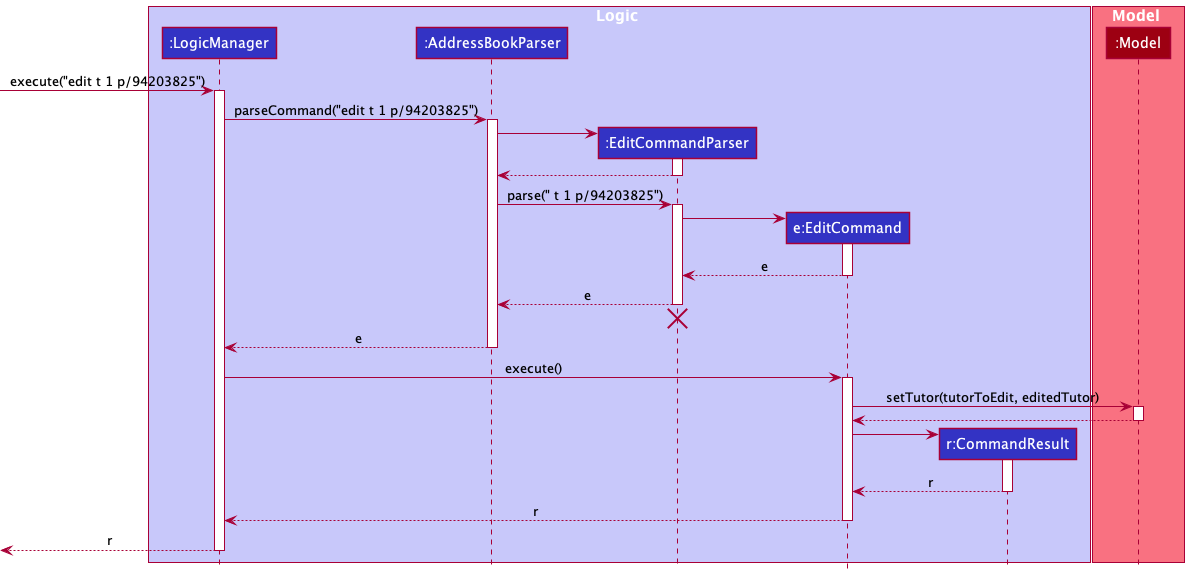
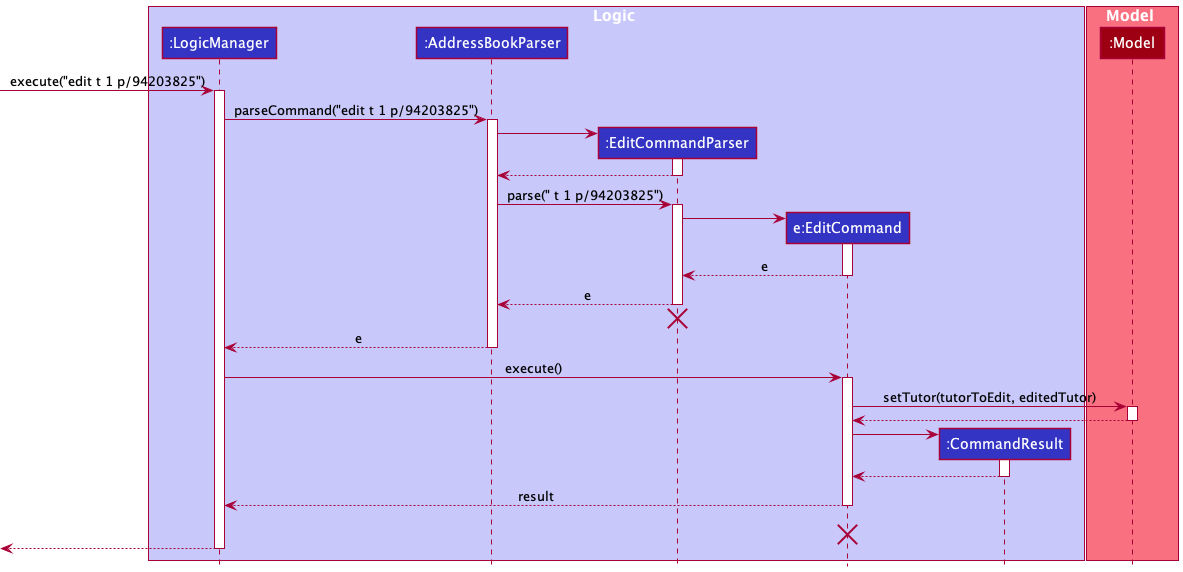
Modify DG for EditCommand based on meeting discussion points

diff --git a/docs/DeveloperGuide.md b/docs/DeveloperGuide.md
@@ -265,7 +265,7 @@ Given below is an activity diagram to show how the `delete` command works for a 
 
 ### Edit feature
 #### What it is
-Edits a tutor or student in the tutor list or student list respectively. All fields are optional in the `edit` command, but at least one field must be specified for the command to execute successfully.
+Edits a tutor/student in the tutor list/student list respectively. All fields are **optional** in the `edit` command, but **at least one field** must be specified for the command to execute successfully.
 
 #### Implementation details
 ##### Sequence of action
@@ -273,17 +273,17 @@ Edits a tutor or student in the tutor list or student list respectively. All fie
 
 Given below is an example usage scenario and how the `edit` command implementation behaves at each step:
 
-1. The user input (for e.g `edit t 1 p/94203825`) is handled by the `CommandBox` class in the Ui component, before being passed to `LogicManager` to be executed.
-2. `LogicManager` calls on `AddressBookParser`'s `parseCommand()` method which in turns creates a new `EditCommandParser`.
+1. The user input `edit t 1 p/94203825` is passed to `LogicManager` to be executed.
+2. `LogicManager` calls `AddressBookParser#parseCommand` which in turn creates a new `EditCommandParser`.
 3. The `EditCommandParser` calls its own `parse()` method which will return a new `EditCommand` if the input is valid.
 4. `EditCommand` will then update the tutor list in the `Model` class by replacing the existing tutor (to be edited) with the edited tutor.
 5. Lastly, a new `CommandResult` with the success message is returned to the `LogicManager`.
 
-Given below is a sequence diagram to show how the `edit` implementation works:
+Given below is a sequence diagram to show how the `edit` implementation works for a **valid** `edit` tutor input:
 
 ![EditCommandSequenceDiagram](images/EditCommandSequenceDiagram.png)
 
-Given below is an activity diagram to show how the `edit` command works:
+Given below is an activity diagram to show how the `edit` command works on a tutor:
 
 ![EditCommandActivityDiagram](images/EditCommandActivityDiagram.png)
 
@@ -292,7 +292,7 @@ Given below is an activity diagram to show how the `edit` command works:
 {: .no_toc}
 
 - **Alternative 1 (current choice)**: `edit` is handled separately for tutors and students via `EditTutorDescriptor` and `EditStudentDescriptor` respectively.
-    - Pros: It allows the User to edit the details of tutors and students even if they have different fields.
+    - Pros: It allows the user to edit the details of tutors/students even if they have different fields.
     - Cons: `EditCommandParser` would be more complex since it has to handle edits for tutors and students separately due to differing requirements. The higher complexity may lead to a higher chance of creating bugs.
 - **Alternative 2**: `edit` is handled using `EditPersonDescriptor` for both tutors and students.
     - Pros: Simpler to implement and maintain since changes to `EditPersonDescriptor` will be propagated to both tutors and students when editing them.
